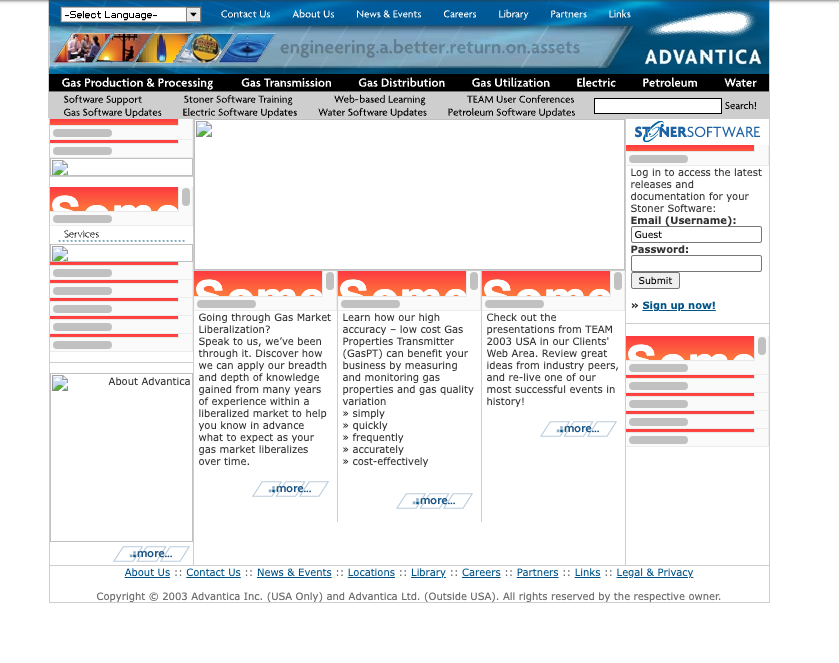
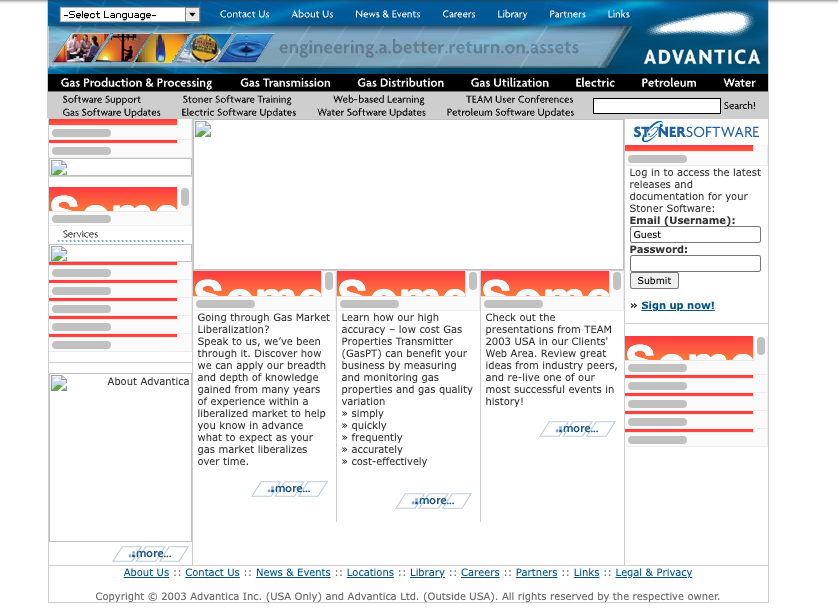
Post: History of stoner.com fixes

diff --git a/_posts/2026-03-10-The_History_Of_Stoner_._com.md b/_posts/2026-03-10-The_History_Of_Stoner_._com.md
@@ -38,7 +38,7 @@ The first Wayback Machine snapshot of the site dates to **July 22, 1997**. At th
 ![](https://raw.githubusercontent.com/ronaldstoner/ron/gh-pages/images/stonercom/1997-jul.png)
 *stoner.com circa 1997*
 
-The page was pure early 1990s web with plain HTML, no CSS to speak of, a long list of hyperlinks to organizations like the American Gas Association, Chevron Pipeline Company, and the Office of Pipeline Safety and a contact directory. The treasurer's contact was listed at the bottom — Donald W. Schroeder Jr., Stoner Associates, Inc., P.O. Box 86, Carlisle, PA 17013 — with his email at `schroed@stoner.com`.
+The page was pure early 1990s web with plain HTML, no CSS to speak of, a long list of hyperlinks to organizations like the American Gas Association, Chevron Pipeline Company, the Office of Pipeline Safety, and a contact directory. The treasurer's contact was listed at the bottom — Donald W. Schroeder Jr., Stoner Associates, Inc., P.O. Box 86, Carlisle, PA 17013 with his email at `schroed@stoner.com`.
 
 ![](https://raw.githubusercontent.com/ronaldstoner/ron/gh-pages/images/stonercom/1997-treasurer.png)
 
@@ -52,7 +52,7 @@ It was a simpler time and a simpler internet. Some would say, a better and more 
 By the end of 1997, the site transitioned to showcase the **Severn Trent Systems** group of companies. Severn Trent, a UK-based utility conglomerate, had absorbed Stoner Associates as one of three business units alongside Severn Trent Systems (US) and STS (UK).
 
 ![](https://raw.githubusercontent.com/ronaldstoner/ron/gh-pages/images/stonercom/1998-dec.png)
-*Severn Trent - 1998*
+*Severn Trent - 1999*
 
 The site described over 500 employees across offices in Houston, Carlisle, Phoenix, and Birmingham, England. The messaging was enterprise software through and through with taglines such as "SolutionSuite," "world-class customer information systems," and "network modeling products." A timeline of acquisitions painted the picture of a company growing through consolidation.
 
